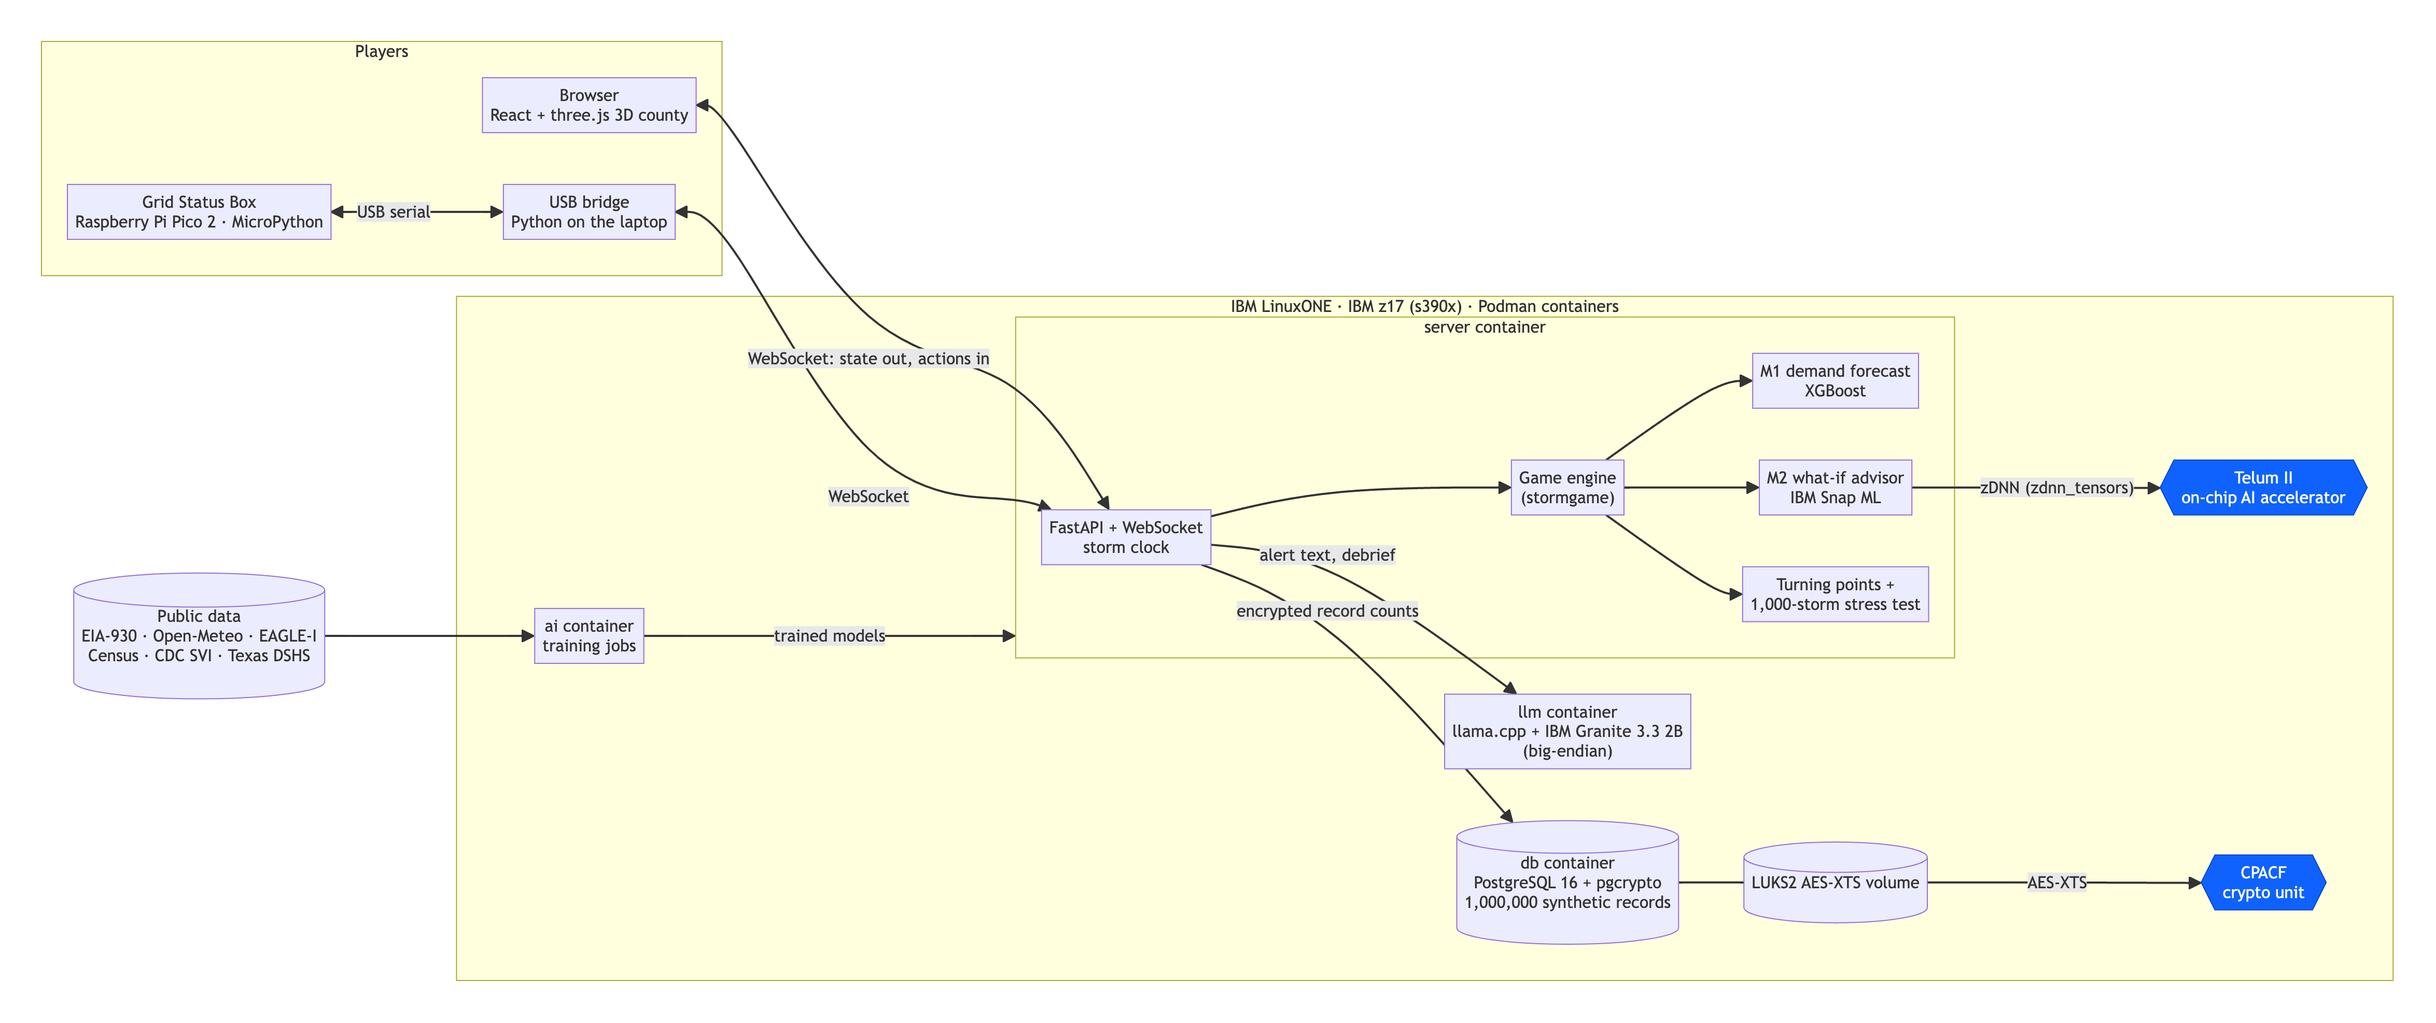
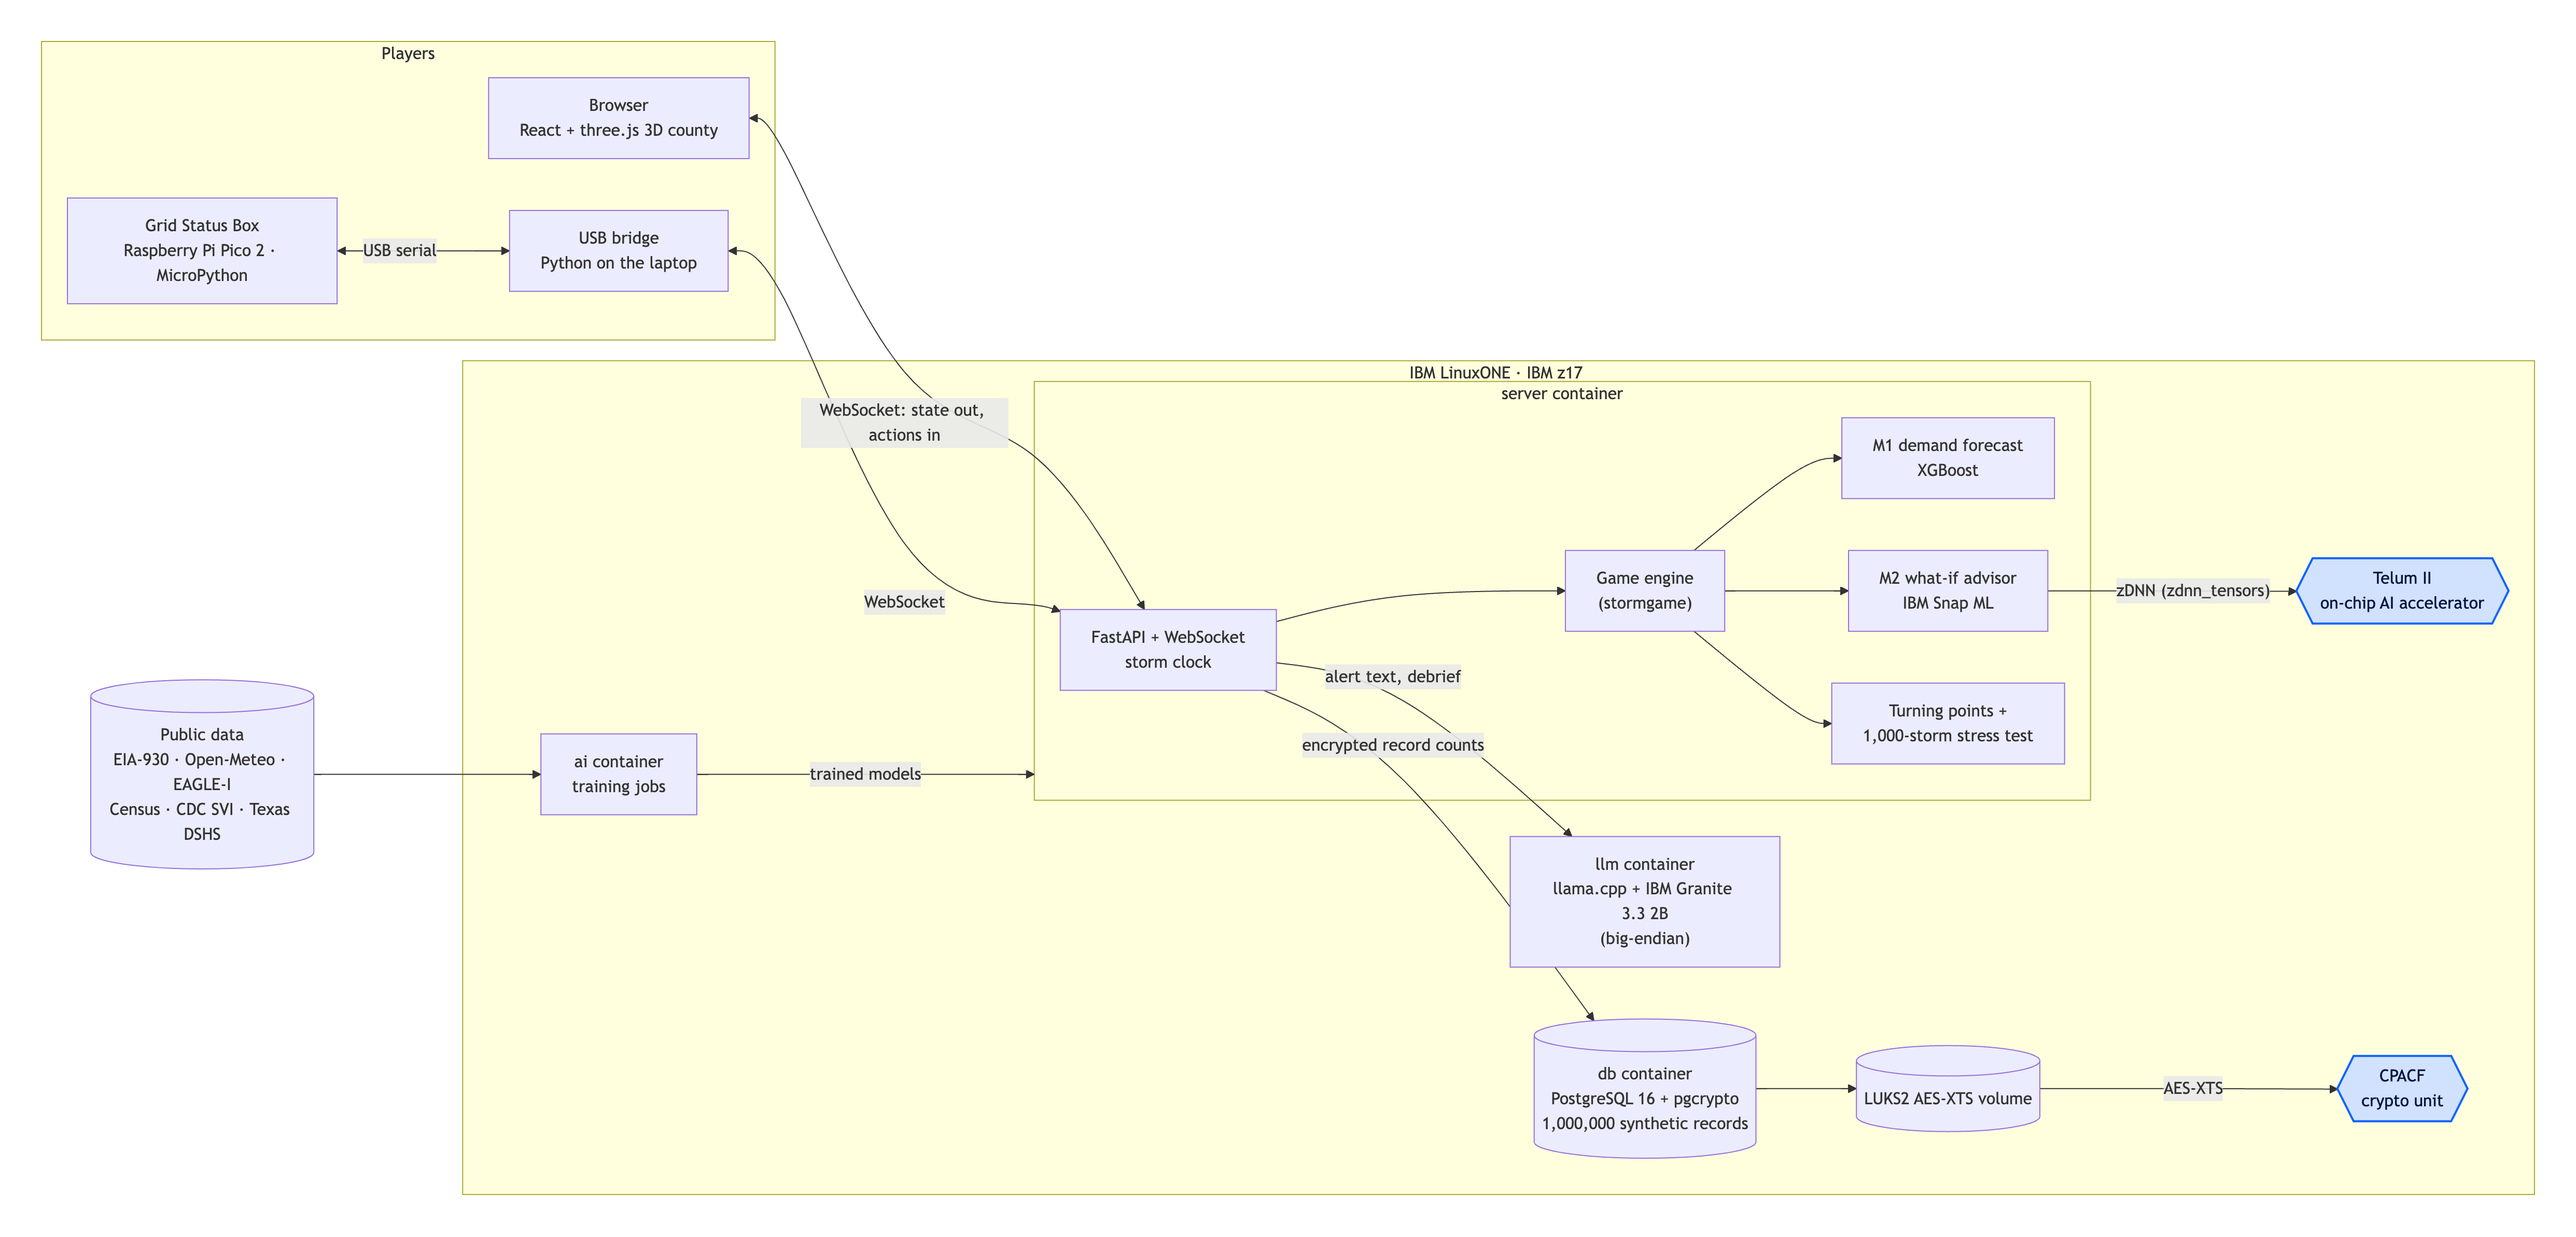
Diagrams: readable highlights in both Mermaid looks, the clean look by default
Light blue highlights with dark text (white on blue hatching was unreadable in
mermaid.live's hand-drawn look), "20 percent" instead of a % the hand-drawn
font garbles, and a config header that picks the classic look so arrow labels
sit on a background. PNGs re-rendered with Mermaid 11.

diff --git a/docs/ARCHITECTURE.md b/docs/ARCHITECTURE.md
@@ -7,6 +7,11 @@ Three Mermaid diagrams. GitHub draws them below; to edit or export one, paste it
 Everything that thinks runs on one IBM LinuxONE VM (IBM z17, s390x) in Podman containers. M2 runs on the Telum II on-chip AI accelerator through IBM Snap ML and zDNN, with a CPU fallback; the database volume and the customer records are encrypted with the CPACF crypto unit.
 
 ```mermaid
+---
+config:
+  look: classic
+  theme: default
+---
 flowchart LR
   subgraph Players["Players"]
     B["Browser<br/>React + three.js 3D county"]
@@ -46,15 +51,20 @@ flowchart LR
   DATA --> AI
   AI -->|"trained models"| SRV
 
-  classDef ibm fill:#0f62fe,stroke:#0043ce,color:#ffffff
+  classDef ibm fill:#d0e2ff,stroke:#0f62fe,stroke-width:2px,color:#001141
   class TEL,CPA ibm
 ```
 
 ## Solution flow: one game, start to finish
 
-The AI advises at every critical moment; the player decides. If the cut falls more than 20% short of the order, the clock stops until the player cuts enough, so the grid never collapses before anyone can react.
+The AI advises at every critical moment; the player decides. If the cut falls more than 20 percent short of the order, the clock stops until the player cuts enough, so the grid never collapses before anyone can react.
 
 ```mermaid
+---
+config:
+  look: classic
+  theme: default
+---
 flowchart TD
   A(["Open the game"]) --> B["Get ready<br/>spend 10 points: generators, warming centers,<br/>gas kept flowing, repair crews, smart switches"]
   B --> C["Start the storm<br/>Sun 18:00 to Fri 12:00 on real Dallas temperatures"]
@@ -63,7 +73,7 @@ flowchart TD
   E -->|yes| F["Decision card, game paused<br/>M2 on Telum: AI pick and effect of each option<br/>IBM Granite: number-checked alert"]
   F --> G["Player decides<br/>click, or the red button on the box"]
   G --> D
-  E -->|no| H{"Cut more than 20%<br/>short of the order?"}
+  E -->|no| H{"Cut more than 20 percent<br/>short of the order?"}
   H -->|yes| I["Clock stops until<br/>the player cuts enough"]
   I --> D
   H -->|no| J["Player cuts and restores<br/>neighborhoods on the map"]
@@ -71,13 +81,18 @@ flowchart TD
   K -->|no| D
   K -->|yes| L["Report<br/>estimated deaths vs the 22 confirmed in 2021<br/>turning points from replays · plan on 1,000 storms<br/>IBM Granite debrief"]
 
-  classDef ai fill:#0f62fe,stroke:#0043ce,color:#ffffff
+  classDef ai fill:#d0e2ff,stroke:#0f62fe,stroke-width:2px,color:#001141
   class F,L ai
 ```
 
 ## From public data to real-time AI
 
 ```mermaid
+---
+config:
+  look: classic
+  theme: default
+---
 flowchart LR
   subgraph S1["1 · Public data"]
     D1["EIA-930 ERCOT demand"]
@@ -116,6 +131,6 @@ flowchart LR
   D5 --> O2
   R4 --> O2
 
-  classDef ibm fill:#0f62fe,stroke:#0043ce,color:#ffffff
+  classDef ibm fill:#d0e2ff,stroke:#0f62fe,stroke-width:2px,color:#001141
   class R2 ibm
 ```
